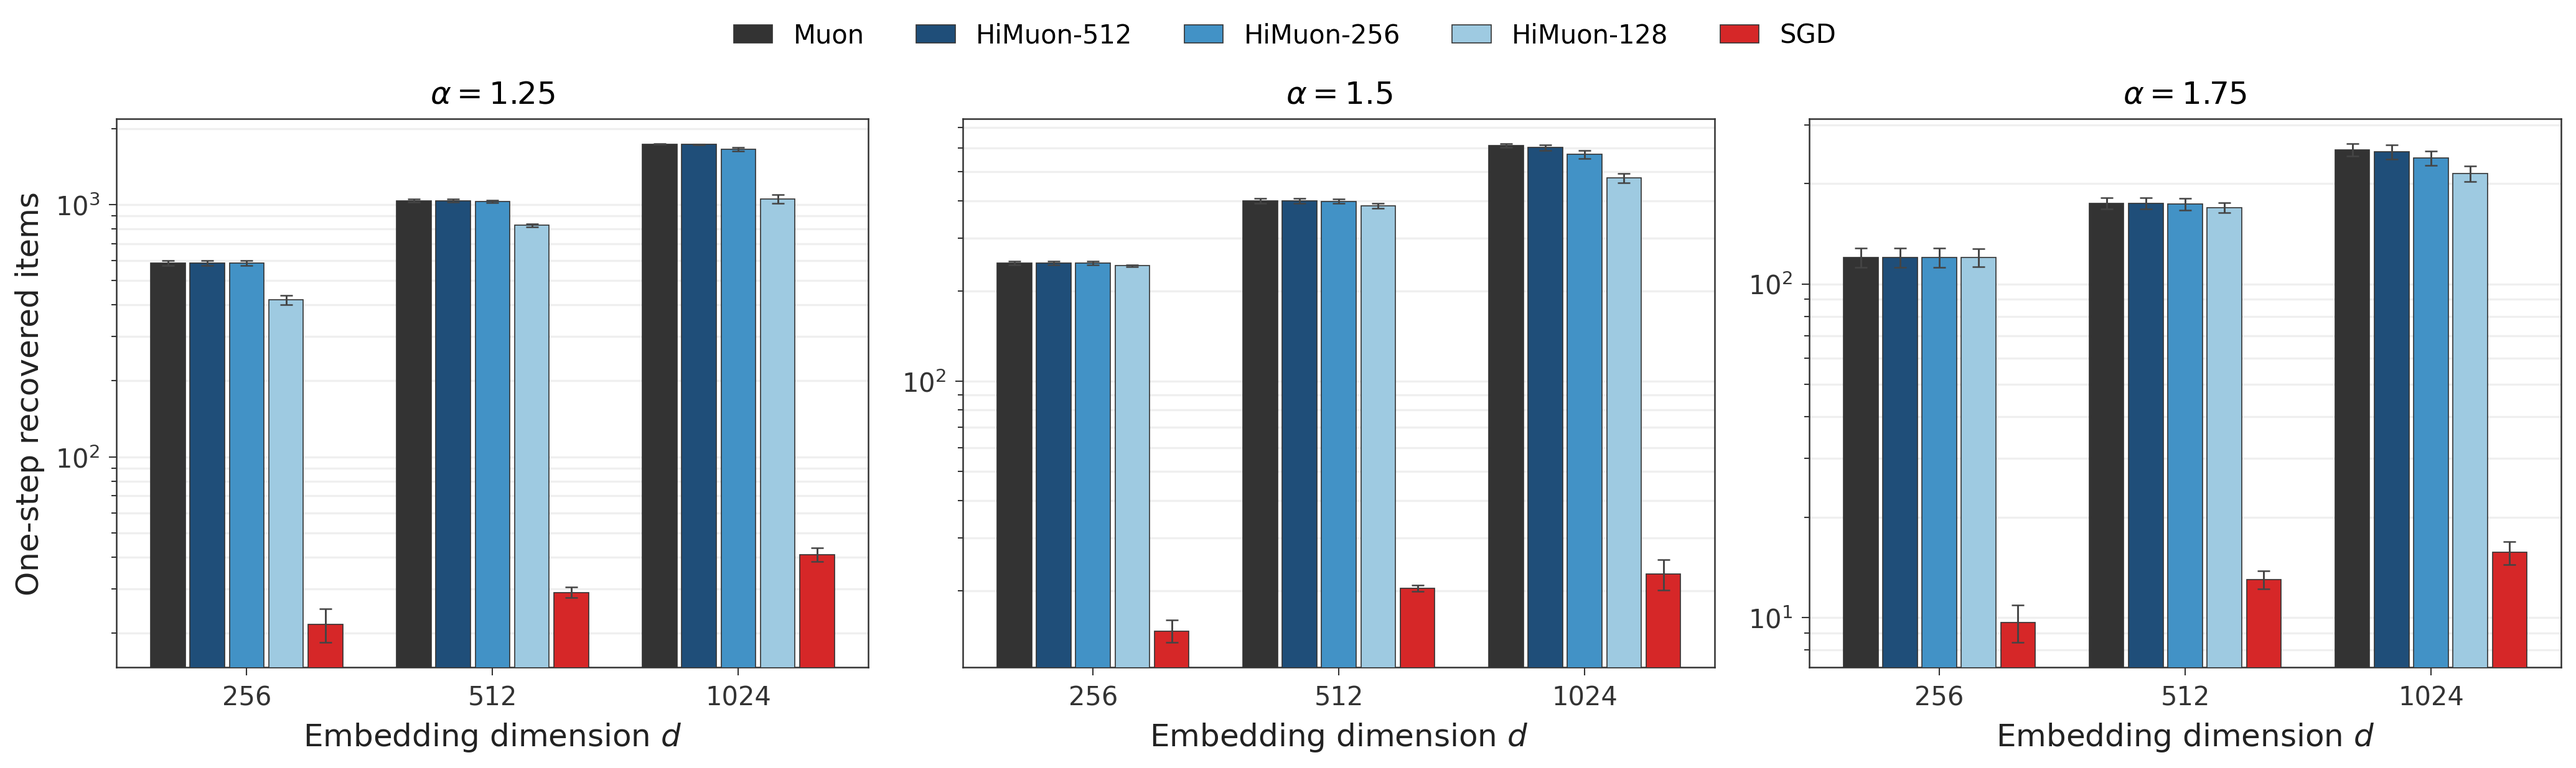
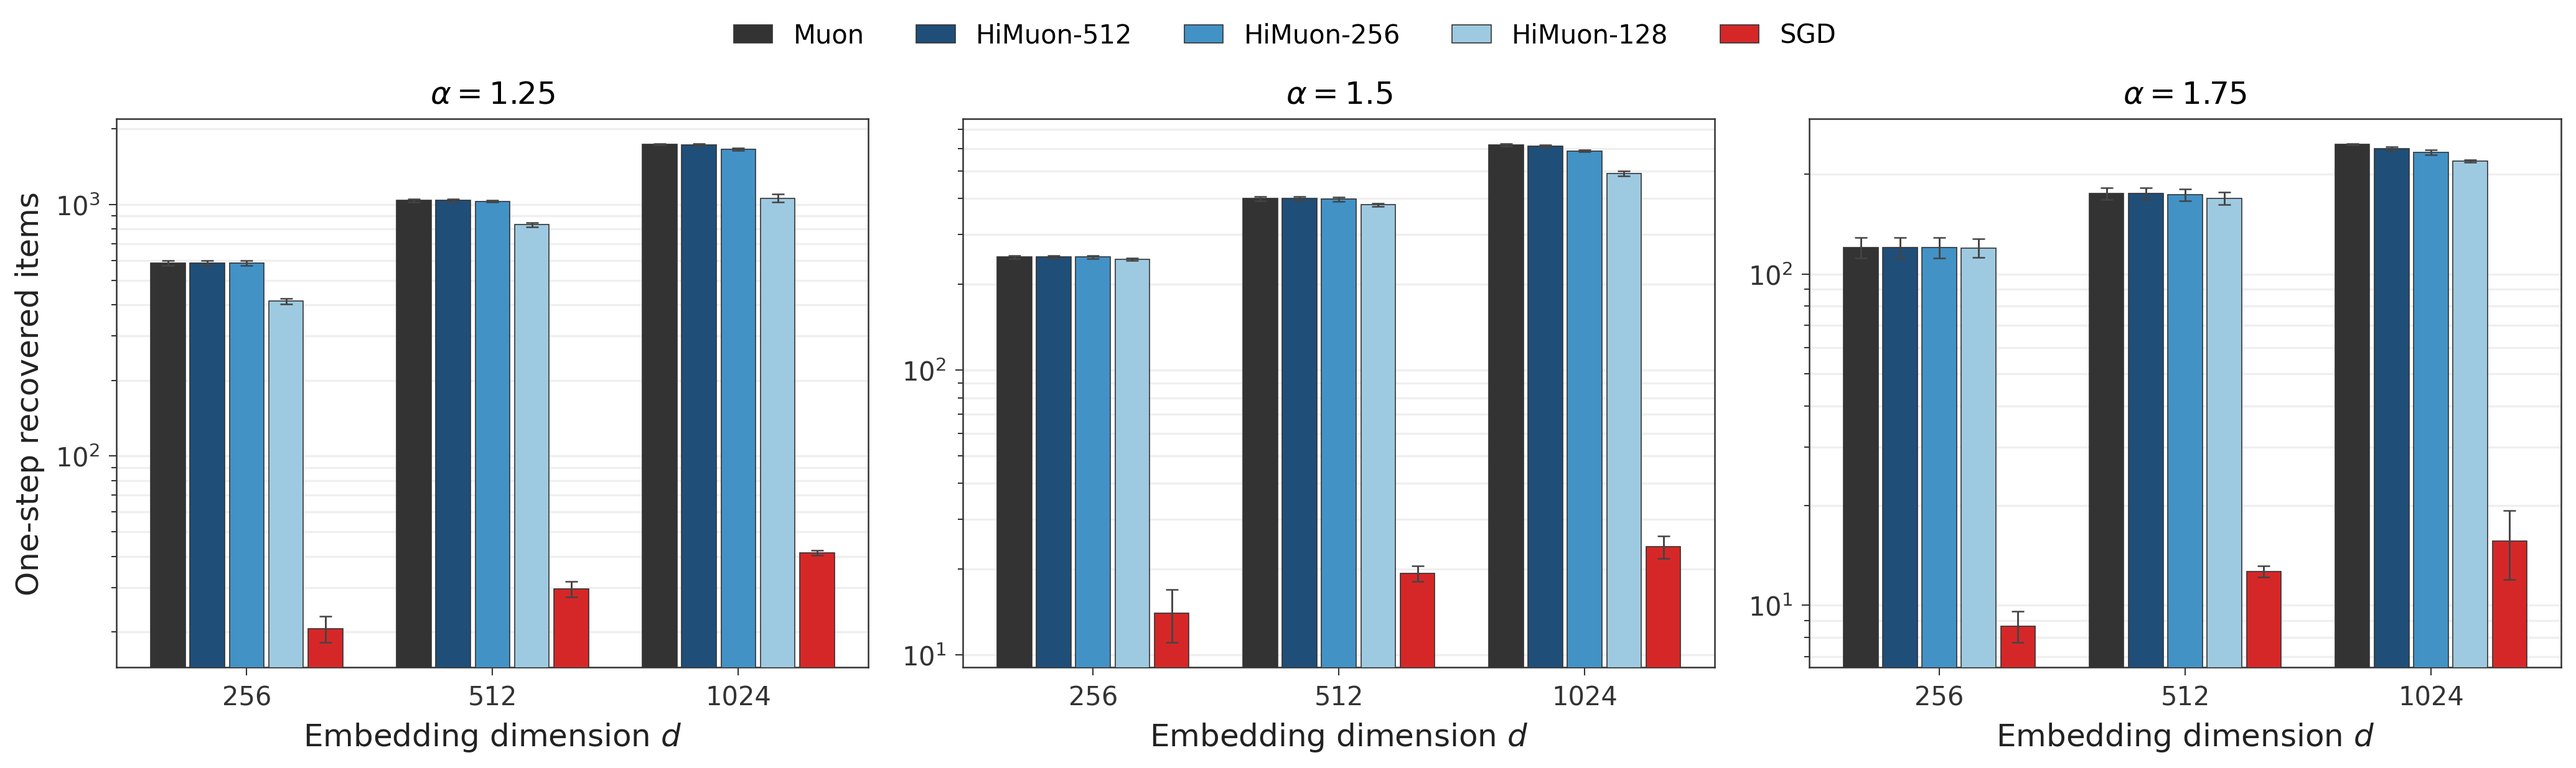
refactor(microbench): align assoc_mem operator with himuon
Drop per-tile normalization, tile shift, and norm-reorder.

diff --git a/microbench/assoc_mem.py b/microbench/assoc_mem.py
@@ -402,35 +402,15 @@ def _normalize_tile_size(tile_size: int | tuple[int, int]) -> tuple[int, int]:
     return int(tile_size[0]), int(tile_size[1])
 
 
-def _descending_norm_permutation(g: torch.Tensor, dim: int) -> torch.Tensor:
-    if dim == 0:
-        norms = torch.linalg.vector_norm(g.to(torch.float32), ord=2, dim=1)
-    elif dim == 1:
-        norms = torch.linalg.vector_norm(g.to(torch.float32), ord=2, dim=0)
-    else:
-        raise ValueError(f"Unsupported dimension {dim} for permutation.")
-    return torch.argsort(norms, descending=True, stable=True)
-
-
-def _inverse_permutation(perm: torch.Tensor) -> torch.Tensor:
-    inverse = torch.empty_like(perm)
-    inverse[perm] = torch.arange(perm.numel(), device=perm.device, dtype=perm.dtype)
-    return inverse
-
-
 def tile_matrix(
     tensor: torch.Tensor,
     tile_size: int | tuple[int, int],
-    *,
-    shift: tuple[int, int] = (0, 0),
 ) -> tuple[torch.Tensor, dict[str, Any]]:
     tile_h, tile_w = _normalize_tile_size(tile_size)
-    shifted = torch.roll(tensor, shifts=(-shift[0], -shift[1]), dims=(0, 1))
-
-    h, w = shifted.shape
+    h, w = tensor.shape
     pad_h = (tile_h - h % tile_h) % tile_h
     pad_w = (tile_w - w % tile_w) % tile_w
-    padded = F.pad(shifted, (0, pad_w, 0, pad_h))
+    padded = F.pad(tensor, (0, pad_w, 0, pad_h))
     h_pad, w_pad = padded.shape
     rows, cols = h_pad // tile_h, w_pad // tile_w
     tiled = padded.view(rows, tile_h, cols, tile_w).permute(0, 2, 1, 3).contiguous()
@@ -443,7 +423,6 @@ def tile_matrix(
         "tile_w": tile_w,
         "rows": rows,
         "cols": cols,
-        "shift": shift,
     }
     return tiled, info
 
@@ -455,56 +434,21 @@ def untile_matrix(tiled: torch.Tensor, info: dict[str, Any]) -> torch.Tensor:
         .view(info["rows"] * info["tile_h"], info["cols"] * info["tile_w"])
     )
     restored = restored[: info["orig_h"], : info["orig_w"]]
-    shift = info["shift"]
-    if shift != (0, 0):
-        restored = torch.roll(restored, shifts=(shift[0], shift[1]), dims=(0, 1))
     return restored
-
-
-def _compute_tile_scale(grid: torch.Tensor, mode: str) -> torch.Tensor:
-    rows, cols, tile_h, tile_w = grid.shape
-    if mode == "tile":
-        return grid.reshape(rows, cols, -1).norm(dim=2) / math.sqrt(tile_h * tile_w)
-    if mode == "tile_row":
-        return grid.reshape(rows, -1).norm(dim=1) / math.sqrt(cols * tile_h * tile_w)
-    raise ValueError(f"Unsupported tile scale mode: {mode}")
-
-
-def _apply_normalization(
-    orth_tiles: torch.Tensor,
-    raw_tiles: torch.Tensor,
-    normalization: str,
-    eps: float = 1e-8,
-) -> torch.Tensor:
-    if normalization == "none":
-        return orth_tiles
-
-    if normalization in {"tile_raw", "tile_divide"}:
-        scale = _compute_tile_scale(raw_tiles, "tile").unsqueeze(-1).unsqueeze(-1)
-    elif normalization in {"tile_row_raw", "tile_row_divide"}:
-        scale = _compute_tile_scale(raw_tiles, "tile_row").view(-1, 1, 1, 1)
-    else:
-        raise ValueError(f"Unsupported normalization: {normalization}")
-
-    if normalization.endswith("_raw"):
-        return orth_tiles * scale
-    return orth_tiles / (scale + eps)
 
 
 def himuon_operator(
     g: torch.Tensor,
     *,
     tile_size: int | tuple[int, int] = 256,
-    normalization: str = "none",
     steps: int = 5,
-    shift: tuple[int, int] = (0, 0),
     ns_precision: str = "fp32",
 ) -> torch.Tensor:
     tile_h, tile_w = _normalize_tile_size(tile_size)
     if g.numel() <= tile_h * tile_w:
         return quintic_ns_operator(g, steps=steps, ns_precision=ns_precision)
 
-    tiles, info = tile_matrix(g, (tile_h, tile_w), shift=shift)
+    tiles, info = tile_matrix(g, (tile_h, tile_w))
     orth_tiles = torch.empty_like(tiles, dtype=torch.float32)
     for r in range(info["rows"]):
         for c in range(info["cols"]):
@@ -513,34 +457,7 @@ def himuon_operator(
                 steps=steps,
                 ns_precision=ns_precision,
             )
-    orth_tiles = _apply_normalization(orth_tiles, tiles.to(torch.float32), normalization)
     return untile_matrix(orth_tiles, info)
-
-
-def reordered_himuon_operator(
-    g: torch.Tensor,
-    *,
-    tile_size: int | tuple[int, int] = 256,
-    normalization: str = "none",
-    steps: int = 5,
-    shift: tuple[int, int] = (0, 0),
-    ns_precision: str = "fp32",
-) -> torch.Tensor:
-    row_perm = _descending_norm_permutation(g, dim=0)
-    col_perm = _descending_norm_permutation(g, dim=1)
-    row_inv = _inverse_permutation(row_perm)
-    col_inv = _inverse_permutation(col_perm)
-
-    reordered = g[row_perm][:, col_perm]
-    reordered_update = himuon_operator(
-        reordered,
-        tile_size=tile_size,
-        normalization=normalization,
-        steps=steps,
-        shift=shift,
-        ns_precision=ns_precision,
-    )
-    return reordered_update[row_inv][:, col_inv]
 
 
 def apply_one_step(
@@ -550,8 +467,6 @@ def apply_one_step(
     eta: float,
     ns_steps: int = 5,
     tile_size: int | tuple[int, int] = 256,
-    normalization: str = "none",
-    shift: tuple[int, int] = (0, 0),
     ns_precision: str = "fp32",
 ) -> torch.Tensor:
     if optimizer == "sgd":
@@ -562,18 +477,7 @@ def apply_one_step(
         update = himuon_operator(
             g,
             tile_size=tile_size,
-            normalization=normalization,
             steps=ns_steps,
-            shift=shift,
-            ns_precision=ns_precision,
-        )
-    elif optimizer == "reordered_himuon":
-        update = reordered_himuon_operator(
-            g,
-            tile_size=tile_size,
-            normalization=normalization,
-            steps=ns_steps,
-            shift=shift,
             ns_precision=ns_precision,
         )
     else:
@@ -881,9 +785,7 @@ def make_result_record(
     eta: float,
     metrics: dict[str, Any],
     tile_size: int | tuple[int, int] | None = None,
-    normalization: str | None = None,
     ns_steps: int = 5,
-    shift: tuple[int, int] = (0, 0),
     extra: dict[str, Any] | None = None,
 ) -> dict[str, Any]:
     record: dict[str, Any] = {
@@ -898,8 +800,6 @@ def make_result_record(
         "eta": eta,
         "ns_steps": ns_steps,
         "tile_size": tile_size,
-        "normalization": normalization,
-        "tile_shift": shift,
     }
     record.update(gradient_meta)
     record.update(metrics)

diff --git a/microbench/experiments/exp_precision_recovery.py b/microbench/experiments/exp_precision_recovery.py
@@ -7,7 +7,7 @@ fp64 and held bit-identical across precision variants; only the GEMM precision i
 the NS iteration differs. fp8e4m3 uses native FP8 via torch._scaled_mm (per-tensor
 dynamic scaling) and requires an sm89+ GPU (e.g. L40S / H100).
 
-Setup: d=1024, N=4096, alpha=1.5, B/d=10, K=5 NS steps, normalization=tile_row_divide,
+Setup: d=1024, N=4096, alpha=1.5, B/d=10, K=5 NS steps,
 5 seeds. Recovery is invariant to (positive) eta, so a single eta is used. The operator
 gap delta_F is the relative Frobenius distance of the produced one-step update to its
 own fp64 reference, averaged over seeds.
@@ -80,7 +80,6 @@ def run(
     num_items,
     precisions,
     tiles,
-    normalization,
     ns_steps,
     problem_dtype,
     device="cuda",
@@ -88,7 +87,7 @@ def run(
     print(f"Device: {torch.cuda.get_device_name(device)}")
     print(
         f"d={d}, alpha={alpha}, N={num_items}, B/d={batch_scale}, seeds={list(seeds)}, "
-        f"precisions={precisions}, tiles={list(tiles)}, norm={normalization}\n"
+        f"precisions={precisions}, tiles={list(tiles)}\n"
     )
     methods = _methods(tiles)
     records = []
@@ -113,7 +112,6 @@ def run(
                 eta=1.0,
                 ns_steps=ns_steps,
                 tile_size=tile if tile is not None else 256,
-                normalization=normalization,
                 ns_precision="fp64_ref",
             )
             for precision in precisions:
@@ -126,7 +124,6 @@ def run(
                         eta=1.0,
                         ns_steps=ns_steps,
                         tile_size=tile if tile is not None else 256,
-                        normalization=normalization,
                         ns_precision=precision,
                     )
                 )
@@ -152,7 +149,6 @@ def run(
             "num_items": num_items,
             "precisions": list(precisions),
             "tiles": list(tiles),
-            "normalization": normalization,
             "ns_steps": ns_steps,
             "problem_dtype": problem_dtype,
             "device": torch.cuda.get_device_name(device),
@@ -182,8 +178,7 @@ def _write_table(rec_ms, gap_m, config, out_dir=None):
     lines = [
         f"% Low-precision one-step recovery, generated on {config['device']} "
         f"(d={config['d']}, N={config['num_items']}, alpha={config['alpha']}, "
-        f"B/d={config['batch_scale']}, K={config['ns_steps']}, {len(config['seeds'])} seeds, "
-        f"normalization={config['normalization']}).",
+        f"B/d={config['batch_scale']}, K={config['ns_steps']}, {len(config['seeds'])} seeds).",
         r"\begin{tabular}{l" + "c" * len(precs) + " cc}",
         r"  \toprule",
         r"  & \multicolumn{%d}{c}{Recovered items} & \multicolumn{2}{c}{Op.\ gap $\delta_F$ to fp64} \\"
@@ -239,7 +234,6 @@ if __name__ == "__main__":
         default=["fp64_ref", "fp32", "bf16", "fp8e4m3_native"],
     )
     parser.add_argument("--tiles", type=int, nargs="+", default=[128, 256, 512])
-    parser.add_argument("--normalization", default="tile_row_divide")
     parser.add_argument("--ns-steps", type=int, default=5)
     parser.add_argument(
         "--problem-dtype", default="float64", choices=["float32", "float64"]
@@ -258,7 +252,6 @@ if __name__ == "__main__":
             num_items=args.num_items,
             precisions=args.precisions,
             tiles=args.tiles,
-            normalization=args.normalization,
             ns_steps=args.ns_steps,
             problem_dtype=args.problem_dtype,
         )

diff --git a/microbench/experiments/exp_topk_recovery.py b/microbench/experiments/exp_topk_recovery.py
@@ -8,7 +8,7 @@ descending population frequency. Restricting to S avoids confounding update-map
 quality with finite-sample coverage: an unsampled item has zero gradient and cannot
 be recovered after one step.
 
-Setup: d=1024, alpha=1.5, B/d=10, N=1e5, 3 seeds, normalization=none. The reported
+Setup: d=1024, alpha=1.5, B/d=10, N=1e5, 3 seeds. The reported
 curve goes up to the common cutoff k_max = min|S| across seeds; recovery is invariant
 to (positive) eta, so a single eta is used.
 
@@ -65,7 +65,6 @@ def run(
     batch_scale,
     num_items,
     tiles,
-    normalization,
     ns_steps,
     device="cuda",
 ):
@@ -105,7 +104,6 @@ def run(
                 eta=1.0,
                 ns_steps=ns_steps,
                 tile_size=tile if tile is not None else 256,
-                normalization=normalization,
             )
             recovered, _ = evaluate_recovery(problem, update)
             rec_s = recovered.to(torch.float32)[support_sorted]
@@ -133,7 +131,6 @@ def run(
             "batch_scale": batch_scale,
             "num_items": num_items,
             "tiles": list(tiles),
-            "normalization": normalization,
             "ns_steps": ns_steps,
             "k_max": k_max,
             "support_sizes": support_sizes,
@@ -224,7 +221,6 @@ if __name__ == "__main__":
     parser.add_argument("--batch-scale", type=float, default=10.0)
     parser.add_argument("--num-items", type=int, default=100000)
     parser.add_argument("--tiles", type=int, nargs="+", default=[128, 256, 512])
-    parser.add_argument("--normalization", default="none")
     parser.add_argument("--ns-steps", type=int, default=5)
     parser.add_argument("--plot-only", action="store_true")
     args = parser.parse_args()
@@ -239,7 +235,6 @@ if __name__ == "__main__":
             batch_scale=args.batch_scale,
             num_items=args.num_items,
             tiles=args.tiles,
-            normalization=args.normalization,
             ns_steps=args.ns_steps,
         )
         plot(data)

diff --git a/microbench/plots/precision_recovery_table.tex b/microbench/plots/precision_recovery_table.tex
@@ -1,4 +1,4 @@
-% Low-precision one-step recovery, generated on NVIDIA L40S (d=1024, N=4096, alpha=1.5, B/d=10.0, K=5, 5 seeds, normalization=tile_row_divide).
+% Low-precision one-step recovery, generated on NVIDIA L40S (d=1024, N=4096, alpha=1.5, B/d=10.0, K=5, 5 seeds).
 \begin{tabular}{lcccc cc}
   \toprule
   & \multicolumn{4}{c}{Recovered items} & \multicolumn{2}{c}{Op.\ gap $\delta_F$ to fp64} \\
@@ -6,8 +6,8 @@
   Method        & fp64 & fp32 & bf16 & fp8e4m3 & bf16 & fp8e4m3 \\
   \midrule
   Muon          & $517.8\!\pm\!11.3$ & $517.8\!\pm\!11.3$ & $517.4\!\pm\!11.7$ & $517.2\!\pm\!11.4$ & 0.062 & 0.019 \\
-  HiMuon-$512$  & $508.8\!\pm\!12.1$ & $508.8\!\pm\!12.1$ & $508.2\!\pm\!11.8$ & $508.8\!\pm\!11.9$ & 0.061 & 0.027 \\
-  HiMuon-$256$  & $486.4\!\pm\!12.6$ & $486.4\!\pm\!12.6$ & $487.2\!\pm\!11.1$ & $485.8\!\pm\!12.6$ & 0.057 & 0.039 \\
-  HiMuon-$128$  & $407.8\!\pm\!15.1$ & $407.8\!\pm\!15.1$ & $406.6\!\pm\!15.6$ & $406.8\!\pm\!15.3$ & 0.052 & 0.059 \\
+  HiMuon-$512$  & $508.8\!\pm\!12.1$ & $508.8\!\pm\!12.1$ & $508.2\!\pm\!11.8$ & $509.0\!\pm\!11.9$ & 0.061 & 0.027 \\
+  HiMuon-$256$  & $486.4\!\pm\!12.6$ & $486.4\!\pm\!12.6$ & $486.4\!\pm\!11.2$ & $485.8\!\pm\!12.6$ & 0.058 & 0.039 \\
+  HiMuon-$128$  & $408.0\!\pm\!15.3$ & $408.0\!\pm\!15.3$ & $406.6\!\pm\!15.6$ & $406.8\!\pm\!14.6$ & 0.052 & 0.059 \\
   \bottomrule
 \end{tabular}

diff --git a/microbench/experiments/exp_capacity_scaling.py b/microbench/experiments/exp_capacity_scaling.py
@@ -87,7 +87,6 @@ def run(ds, alphas, batch_scale, num_items, seeds, tiles, ns_steps, device="cuda
                         eta=1.0,
                         ns_steps=ns_steps,
                         tile_size=tile if tile is not None else 256,
-                        normalization="none",
                     )
                     recovered, _ = evaluate_recovery(problem, update)
                     records.append(
@@ -119,7 +118,6 @@ def run(ds, alphas, batch_scale, num_items, seeds, tiles, ns_steps, device="cuda
             "seeds": list(seeds),
             "tiles": list(tiles),
             "ns_steps": ns_steps,
-            "normalization": "none",
             "gradient_mode": "true_minibatch",
             "device": torch.cuda.get_device_name(device),
         },
